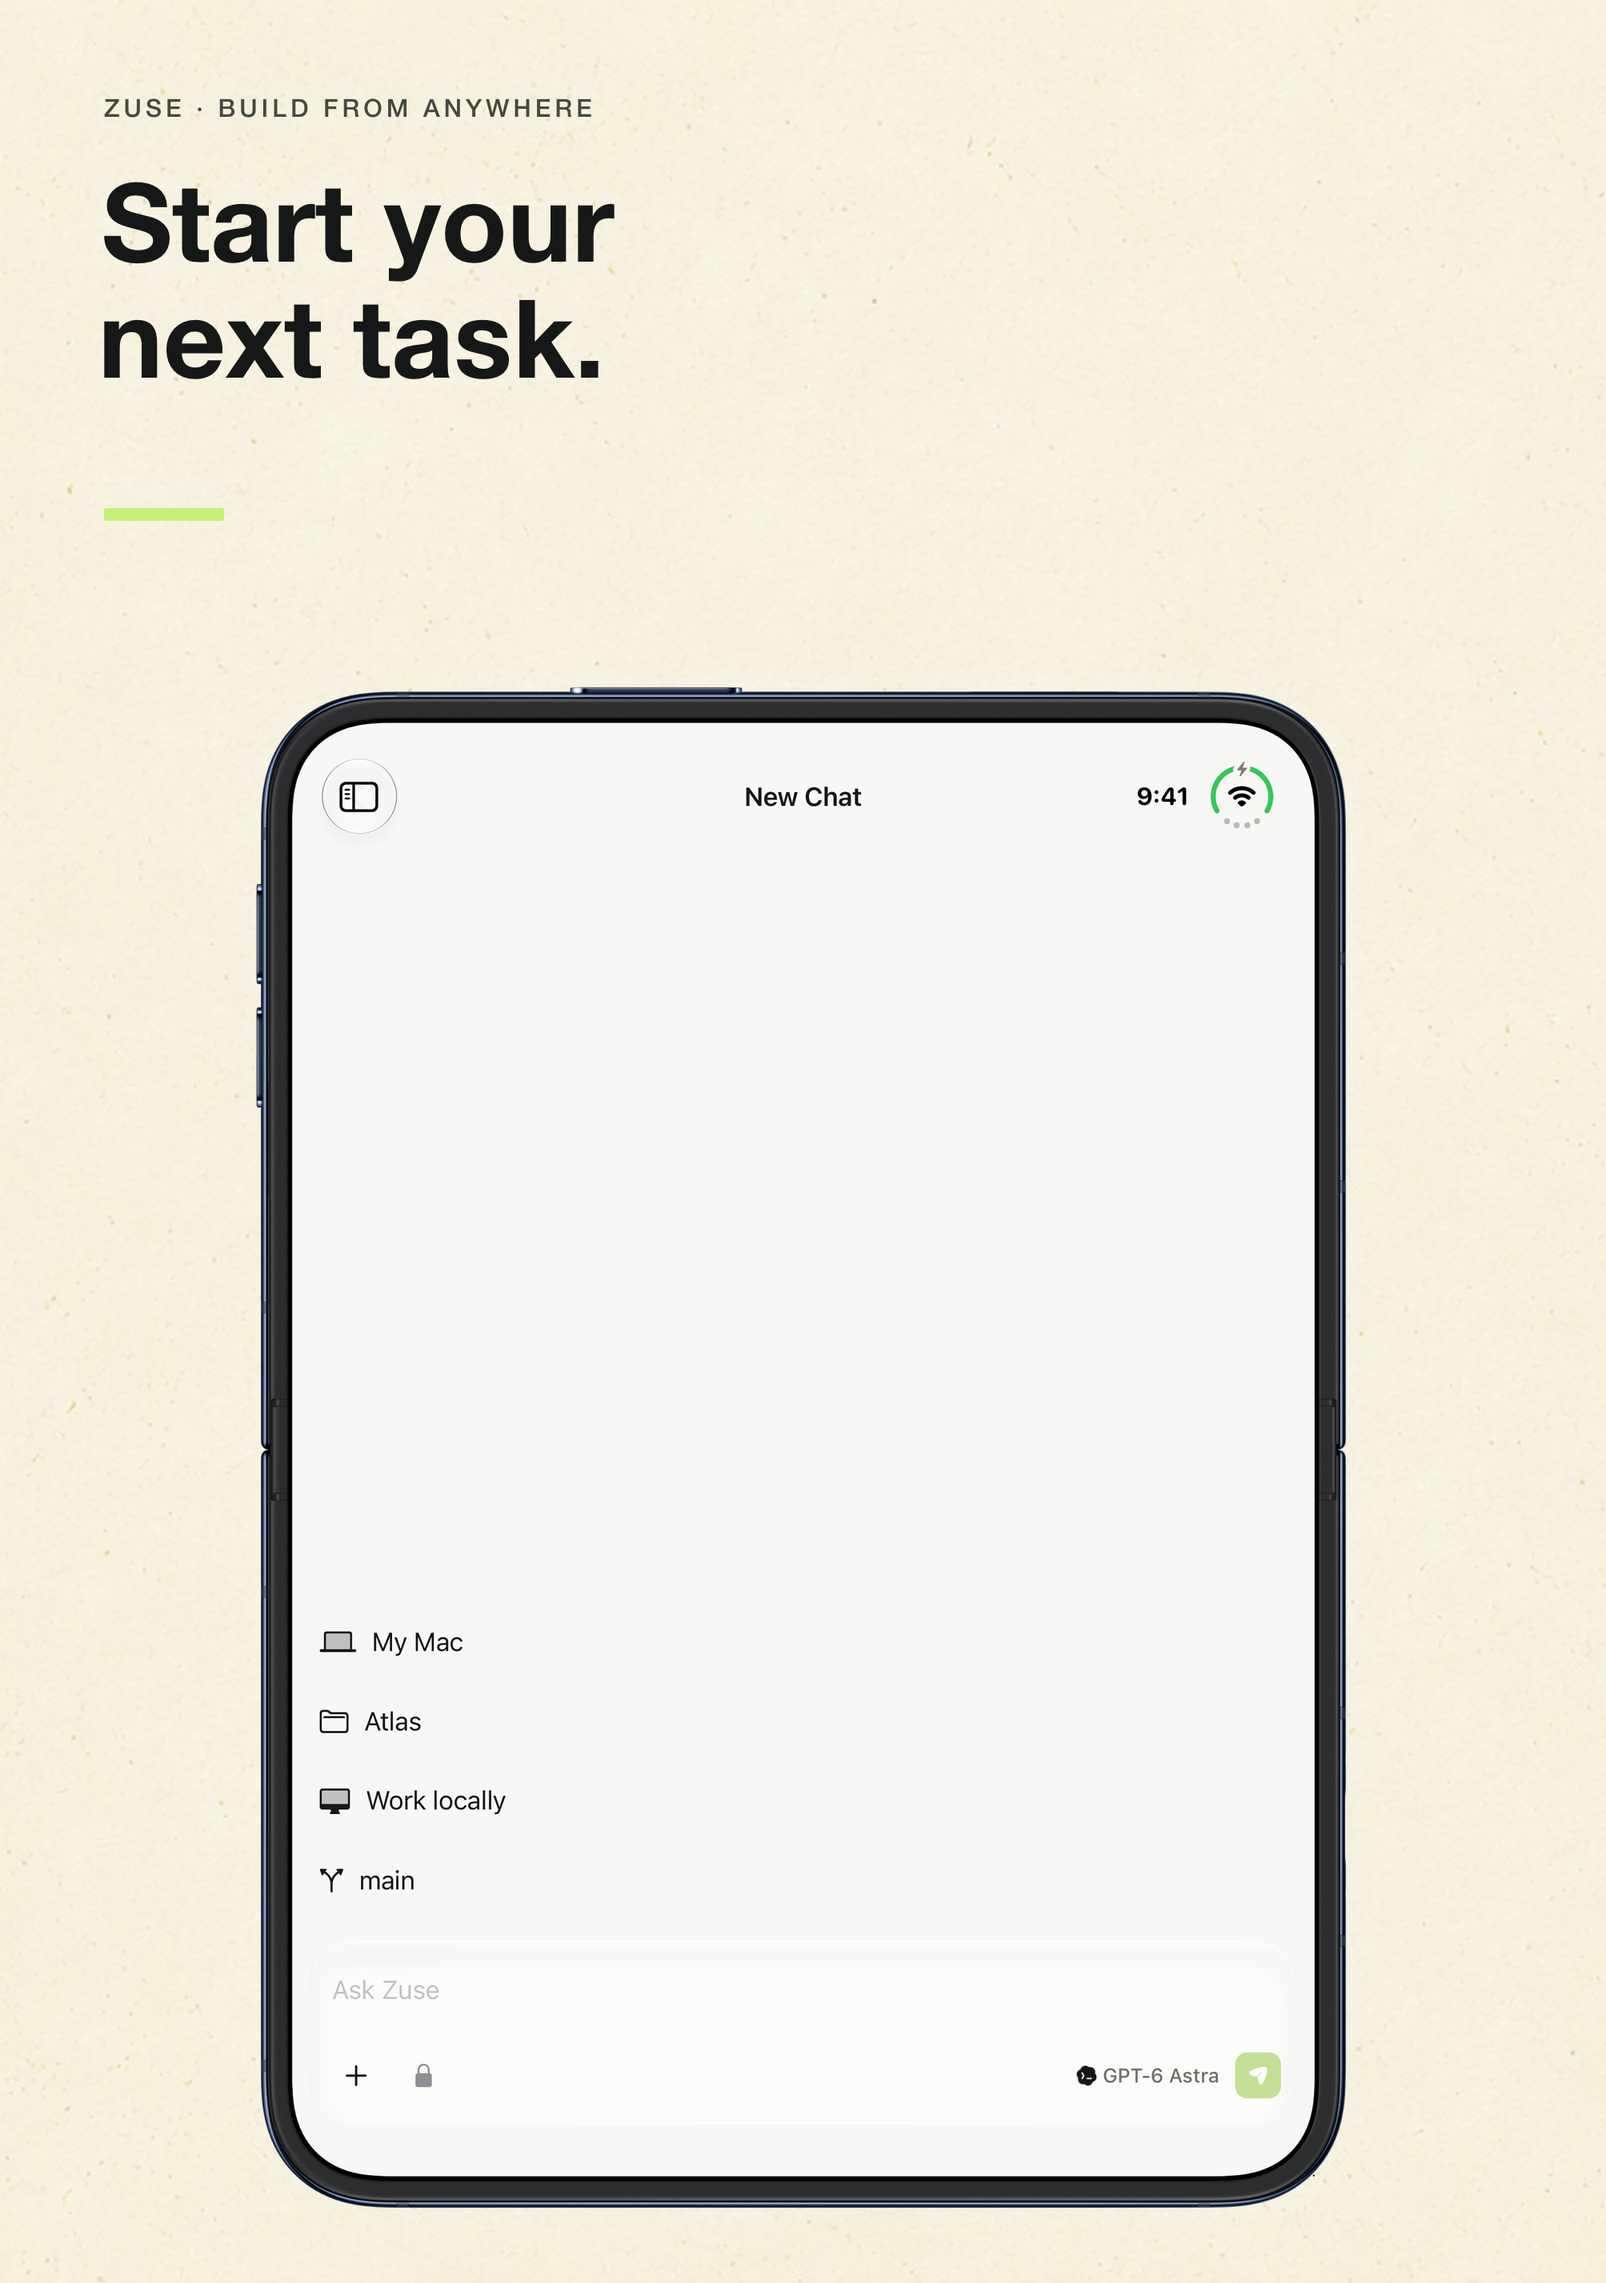
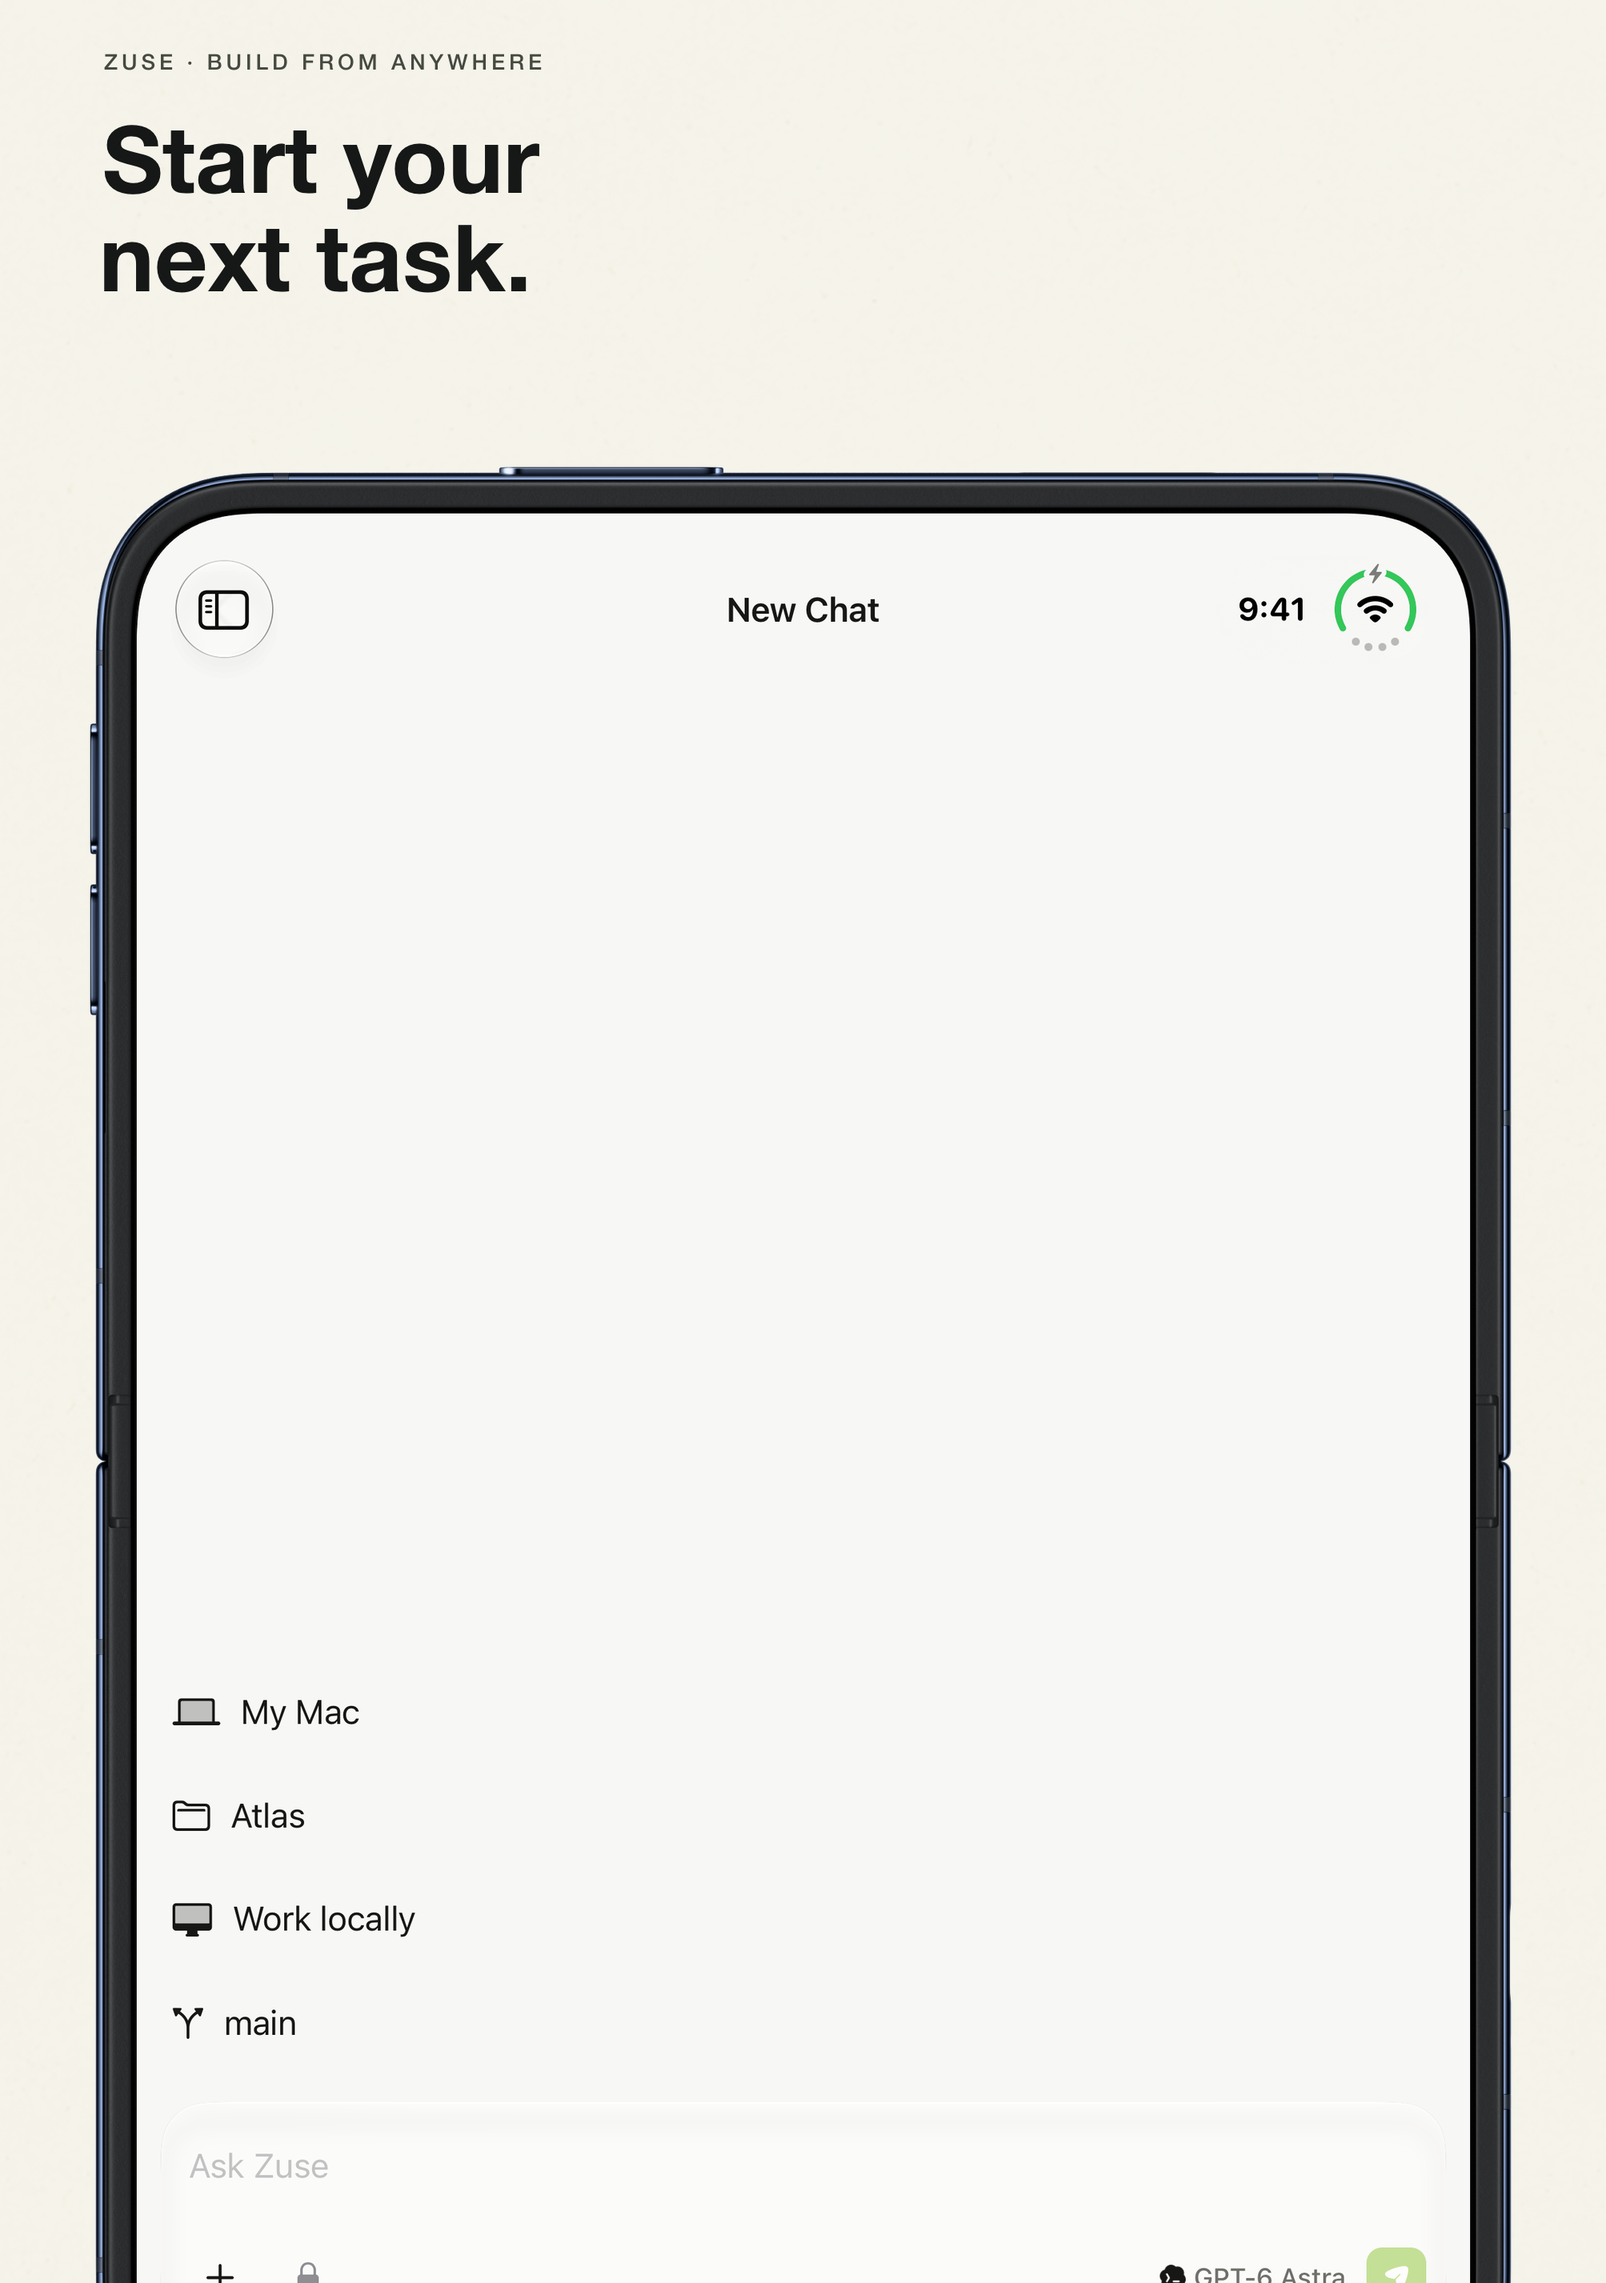
Enlarge iPad and Duo store artwork with cleaner crops

Changed region(s): [[0.0309, 0.0312, 0.9576, 1.0], [0.278, 0.7799, 0.3089, 0.8111]]

diff --git a/internal-docs/mobile/store-assets-1.1.0.md b/internal-docs/mobile/store-assets-1.1.0.md
@@ -5,7 +5,7 @@ Verified against Apple documentation on 2026-10-24. All 30 delivery PNGs are ren
 ## Current production state
 
 - Completed: 24 device-framed screenshot cards and six header/search/universal masters. `apps/mobile/store-assets/1.1.0/delivery/manifest.json` records exact dimensions and bytes; all 30 are opaque PNGs.
-- The iPad project portrait uses 98% of the canvas width, with an intentional bottom crop. Other iPad portraits keep the entire device visible while enlarging it and reducing headline space.
+- The iPad project portrait uses a 108% width close-up, cropped at the sides and bottom. Other iPad and both Duo portrait devices use up to 90% of the canvas height, with 10% of the device extending below the canvas. Landscape and creative devices also extend 10% below the canvas. Smaller headlines, removed accent rules, and subdued illustration backgrounds make the app more prominent.
 - Captures use the Expo app with isolated sample projects and official Apple device bezels. Generated illustration backgrounds are stored under `source/`. No private chats appear in the artwork.
 - Xcode 27.1 and the iOS 27.1 simulator runtime are installed. iPad and Duo simulators were opened for native captures. Both Duo displays have portrait and landscape coverage.
 - Fixed the Uniwind asset-registry startup failure, bounded-sheet padding, iOS rotation policy, and horizontal safe-area handling. The final review screen is included in the captures.
